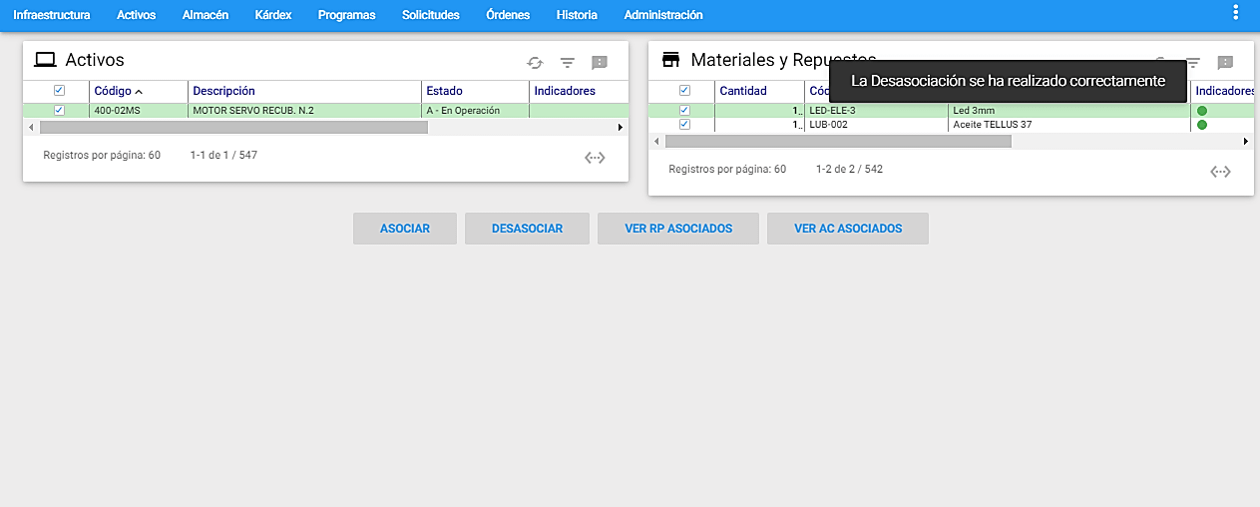
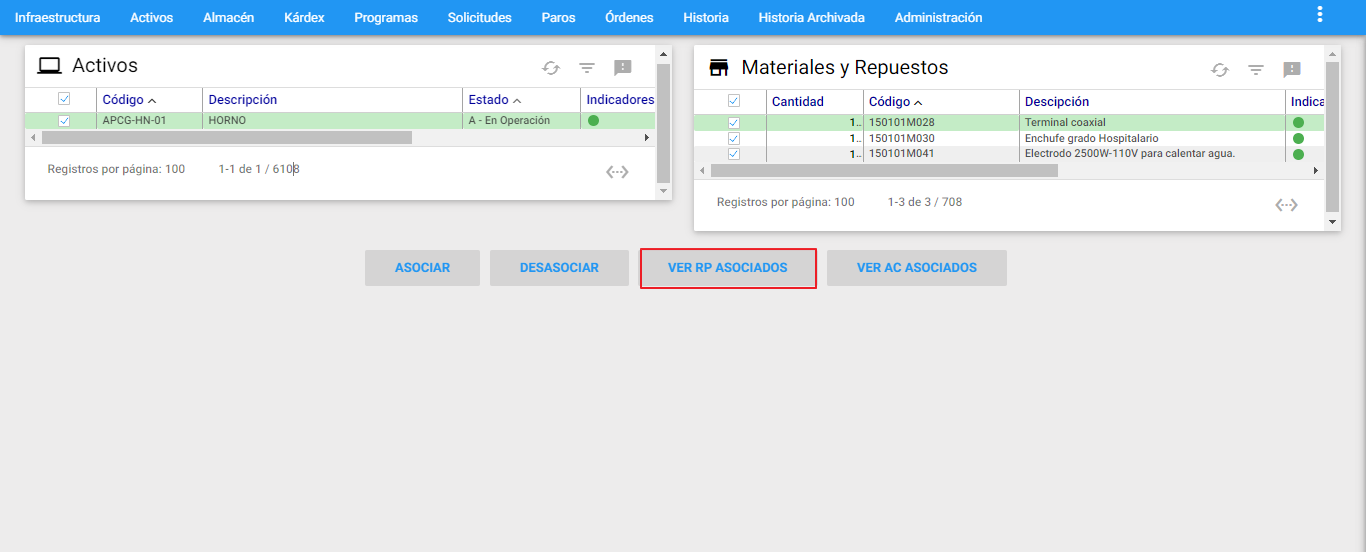
actualización imagen

diff --git a/_docs/04_04_main_window.md b/_docs/04_04_main_window.md
@@ -315,10 +315,13 @@ La asociación de los Repuestos con los Activos, inicia al dar clic a los **chec
 
 ![Procesar imagen](https://ayuda.winsoftware.com.co/assets/images/cap04/chp04_img25.png)
 _**Imagen 25.** Almacén - Selección  Asociar con Activos_
-     
-Para terminar la transacción se da clic al botón `<a class="btn">`Asociar`</a>` inmediatamente se muestra un mensaje confirmando la ejecución de la transacción y se observa el resultado de la asociación realizada.
 
-![activos](../../assets/images/cap04/chp04_img19.png)
+En el ejemplo anterior se asociaron tres Repuestos diferentes, de cada uno una unidad para dos Activos.
+
+Para terminar la transacción se da clic al botón ubicado en la parte inferior <a class="btn gray">asociar</a> el cual se muestra una notificación confirmando la ejecución de la transacción y se observa el resultado de la asociación realizada de manera resumida asi:
+
+![Procesar imagen](https://ayuda.winsoftware.com.co/assets/images/cap04/chp04_img26.png)
+_**Imagen 26.** Almacén - Asociar con Activos_
 
 Si el usuario desea ver la asociación de un Activo y sus Repuestos asociados, se debe elegir un único Activo del lado izquierdo y se da clic al botón `<a class="btn">`Ver RP Asociados`</a>`, **AM** mostrará en el lado derecho los Repuestos que fueron asociados al Activo seleccionado.
 
